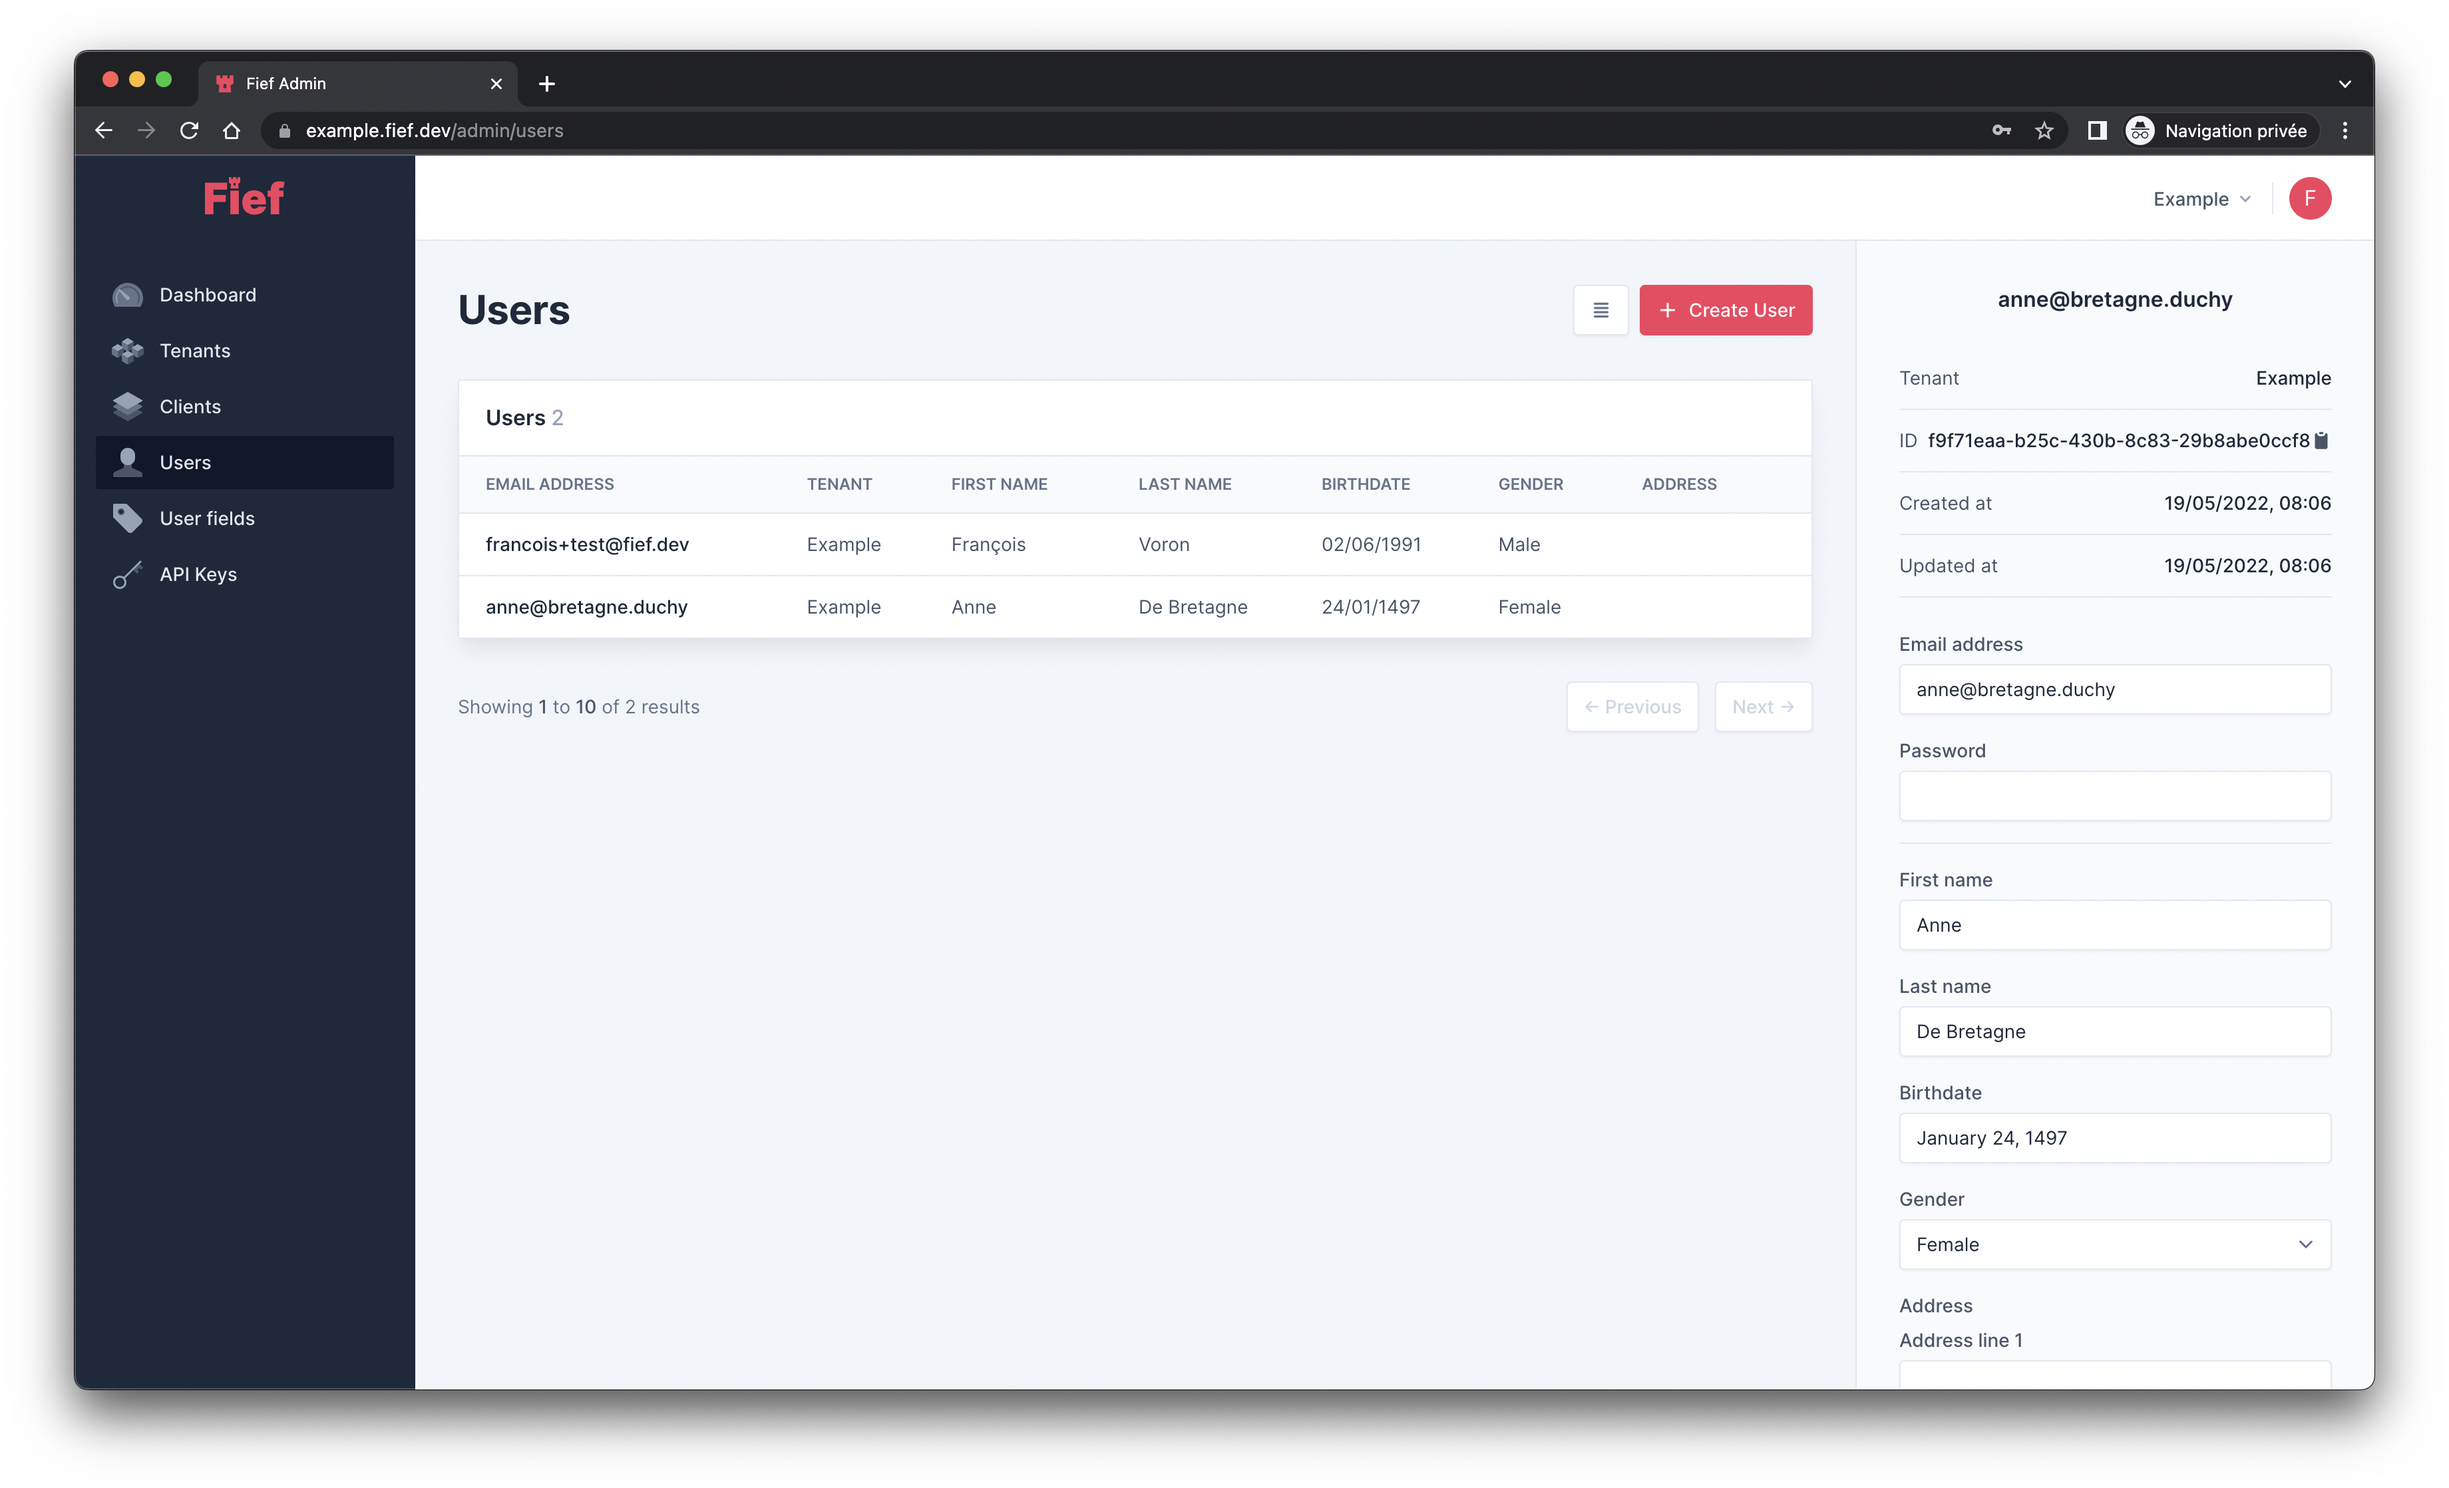
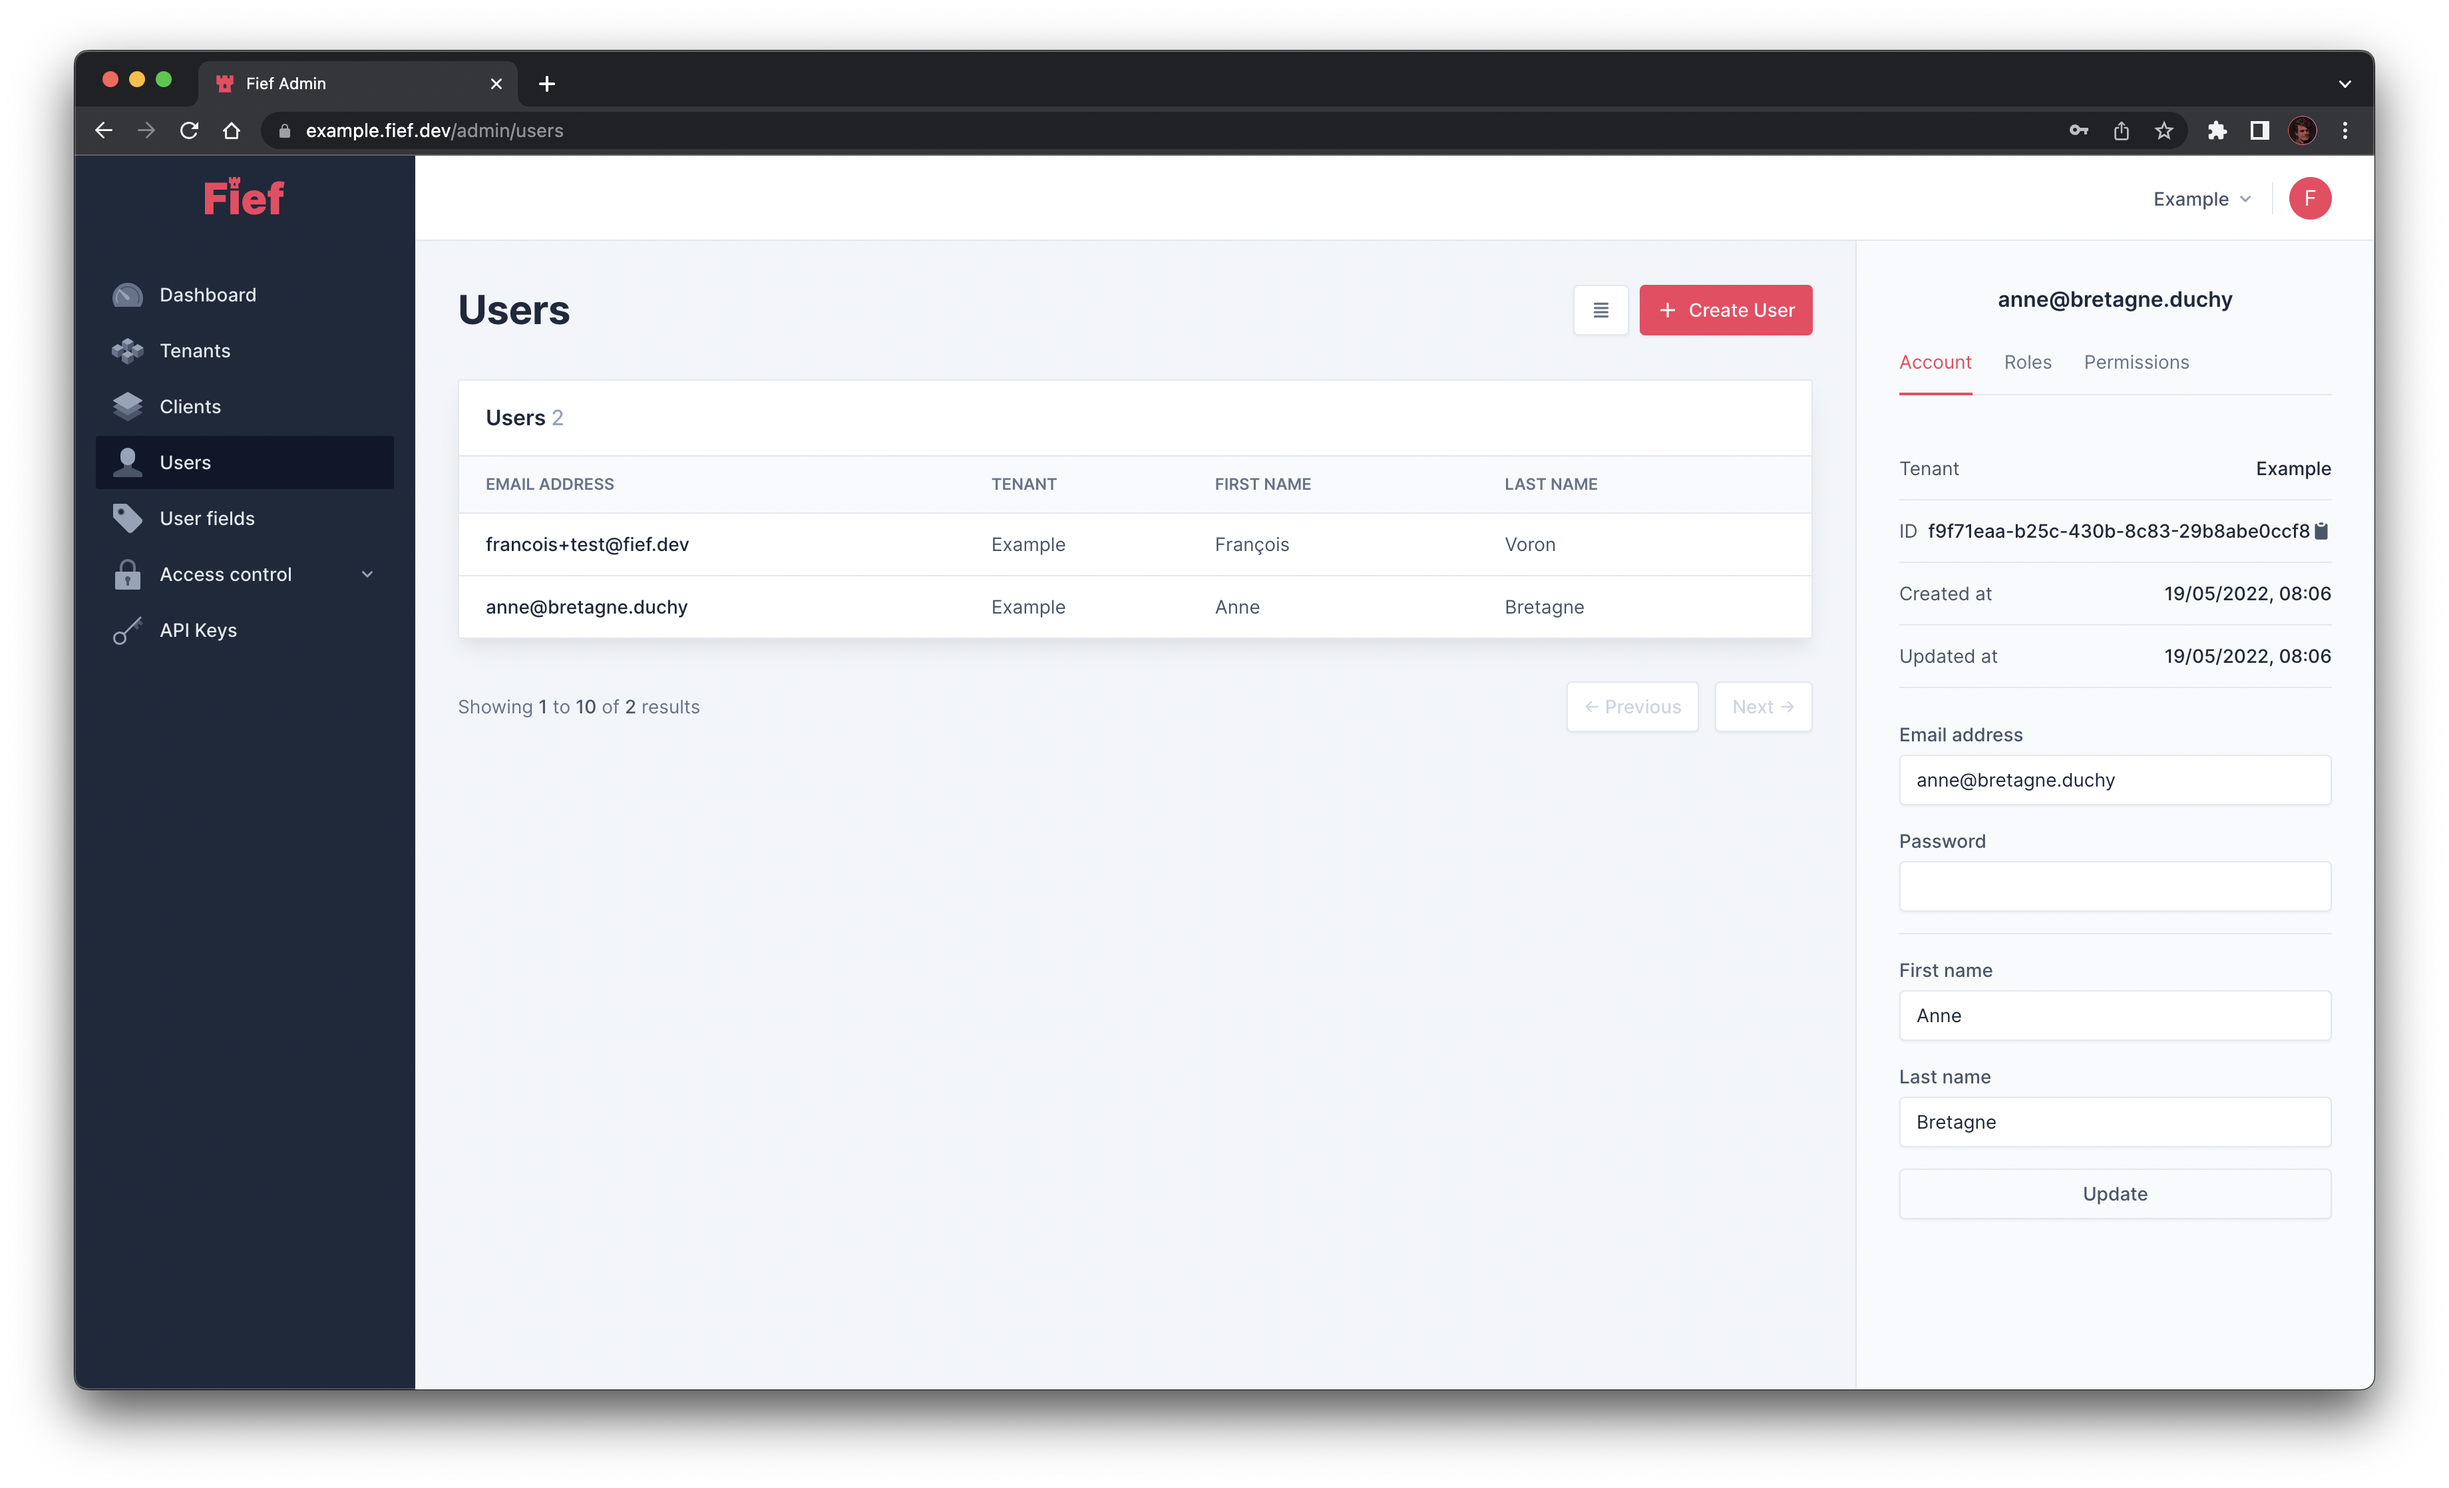
Add docs about assigning/revoking roles and permissions on users

diff --git a/docs/getting-started/users.md b/docs/getting-started/users.md
@@ -19,9 +19,50 @@ You'll also be able to fill the values for your [custom user fields](./user-fiel
 
 ## Edit an existing user
 
-If you click on one of the user field in the list, you'll see its details on the right and be able to update them.
+If you click on one of the user in the list, you'll see its details on the right and be able to update them.
 
 ![Edit users from admin dashboard](/assets/images/admin-users-edit.png)
+
+## Assign roles and permissions to a user
+
+--8<-- "reusables/access-control-callout.md"
+
+Fief allows you to define [permissions and roles](./access-control.md) to determine what your users are allowed to do or not in your application. From the dashboard, you are able to assign permissions and roles to users.
+
+### Assign a role
+
+You can assign a role to a user by clicking on it in the list. It details will open on the right. Click on the **Roles** tab to see the roles they already have. From here, you can look for roles in the select menu. Click on **Add role** to assign it to the user.
+
+![Add role to user from admin dashboard](/assets/images/admin-users-add-role.png)
+
+!!! tip "Asssociated permissions are automatically granted"
+    Of course, when you assign a role to a user, the permissions associated to this role are automatically granted to the user. Nothing more to do!
+
+### Revoke a role
+
+You can revoke a role from a user by clicking on the trash button in front of the role you want to remove.
+
+![Revoke role from user from admin dashboard](/assets/images/admin-users-delete-role.png)
+
+!!! tip "Asssociated permissions are automatically revoked"
+    Of course, when you revoke a role from a user, the permissions associated to this role are automatically revoked from this user. Nothing more to do!
+
+### Assign a permission
+
+You can assign a single permission to a user by clicking on it in the list. It details will open on the right. Click on the **Permissions** tab to see the permissions they already have. Notice that **permissions granted through roles are also displayed**, in italic.
+
+From here, you can look for permissions in the select menu. Click on **Add permission** to assign it to the user.
+
+![Add permission to user from admin dashboard](/assets/images/admin-users-add-permission.png)
+
+!!! warning "In general, you should prefer roles"
+    Assigning a single permission can be convenient from time-to-time but we generally recommend to assign proper roles, even if they contain only one permission. This way, you can be more future-proof if you find that you actually need to add a new permission: rather than editing every users one by one, you'll only have to update the role once.
+
+### Revoke a permission
+
+You can revoke a permission from a user by clicking on the trash button in front of the permission you want to remove.
+
+![Revoke permission from user from admin dashboard](/assets/images/admin-users-delete-permission.png)
 
 ## Displaying user fields
 
